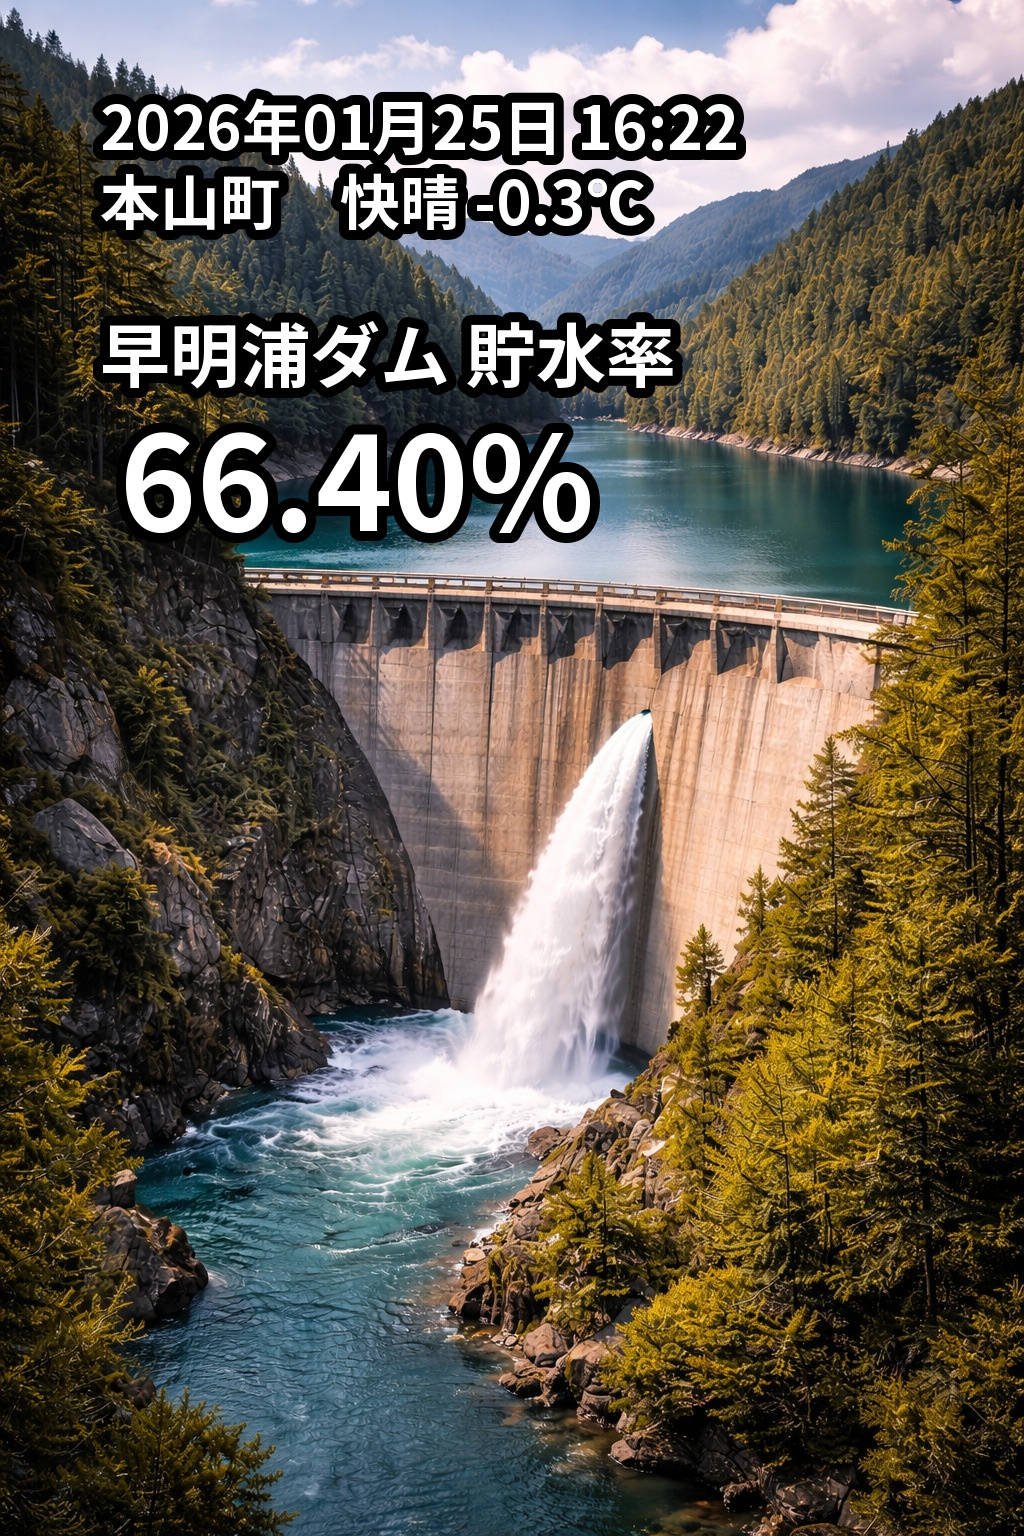
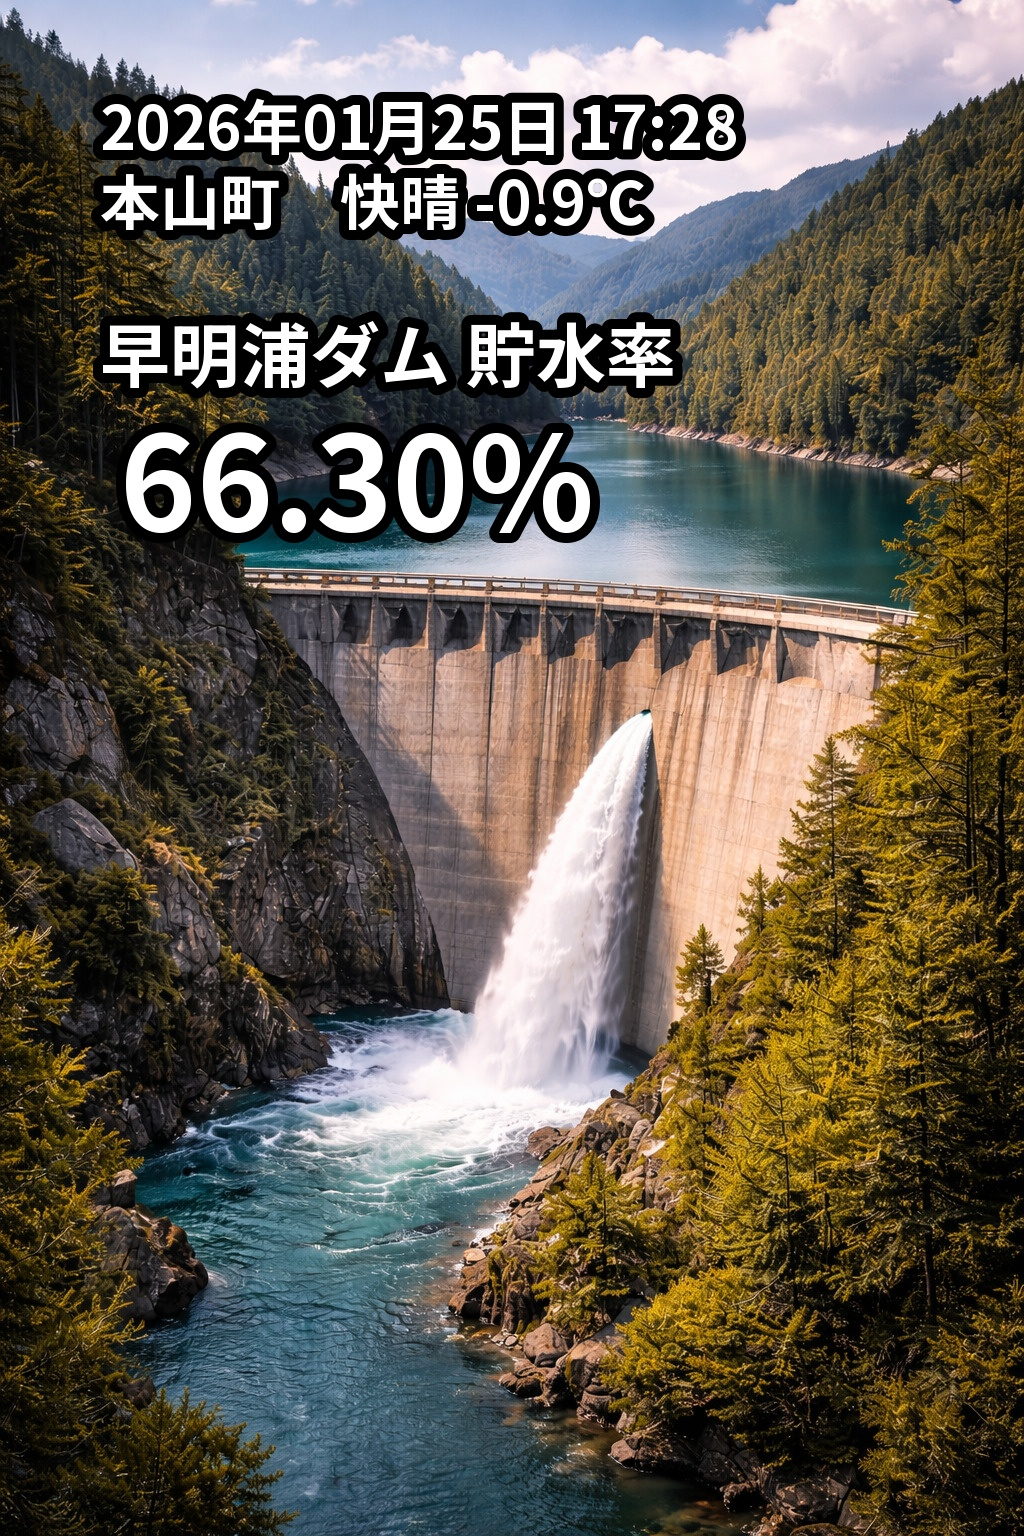
Update daily image

diff --git a/index.html b/index.html
@@ -10,6 +10,6 @@
   </style>
 </head>
 <body>
-  <img src="result.jpg?v=202601251622" alt="早明浦ダム 貯水率" />
+  <img src="result.jpg?v=202601251728" alt="早明浦ダム 貯水率" />
 </body>
 </html>
